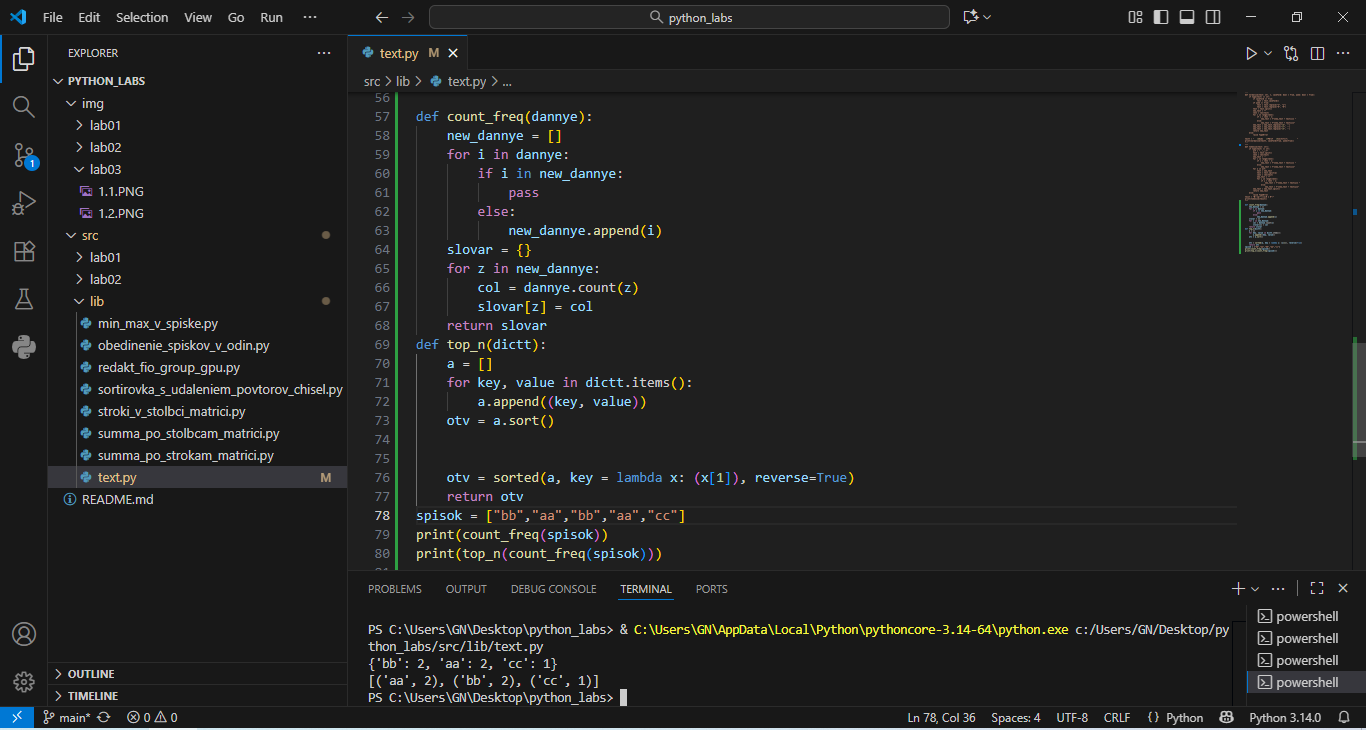
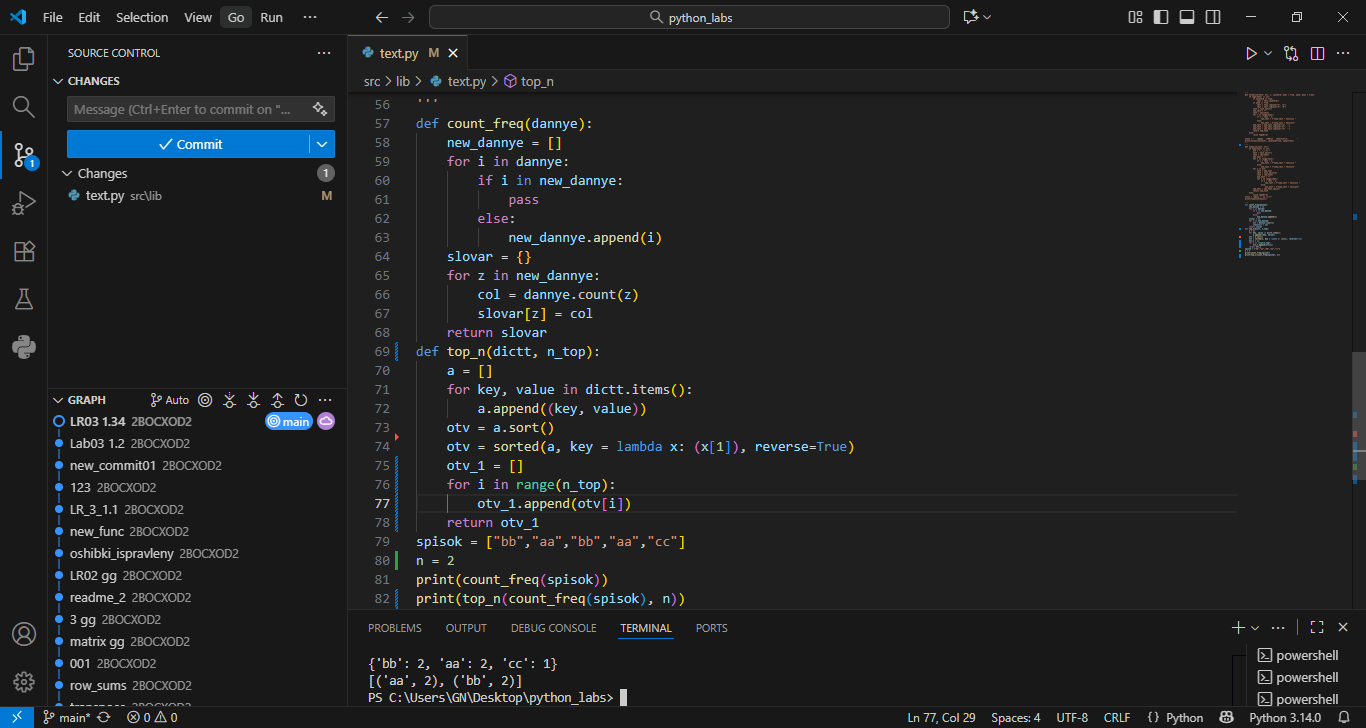
1.3,4

diff --git a/src/lib/text.py b/src/lib/text.py
@@ -24,7 +24,7 @@ def normalize(text: str, *, casefold: bool = True, yo2e: bool = True):
 textt = "   \nЕеЁё   \rАБвгД   \t12(%№?*)?;         "
 print(normalize(textt, casefold=True, yo2e=True))
 '''
-
+'''
 def tokenize(text: str):
     if type(text) == str:
         alf = ",.!_;:?😀"
@@ -66,16 +66,17 @@ def count_freq(dannye):
         col = dannye.count(z)
         slovar[z] = col
     return slovar
-def top_n(dictt):
+def top_n(dictt, n_top):
     a = []
     for key, value in dictt.items():
         a.append((key, value))
     otv = a.sort()
-
-    
     otv = sorted(a, key = lambda x: (x[1]), reverse=True)
-    return otv
+    otv_1 = []
+    for i in range(n_top):
+        otv_1.append(otv[i])
+    return otv_1
 spisok = ["bb","aa","bb","aa","cc"]
+n = 2
 print(count_freq(spisok))
-print(top_n(count_freq(spisok)))
-'''
+print(top_n(count_freq(spisok), n))
